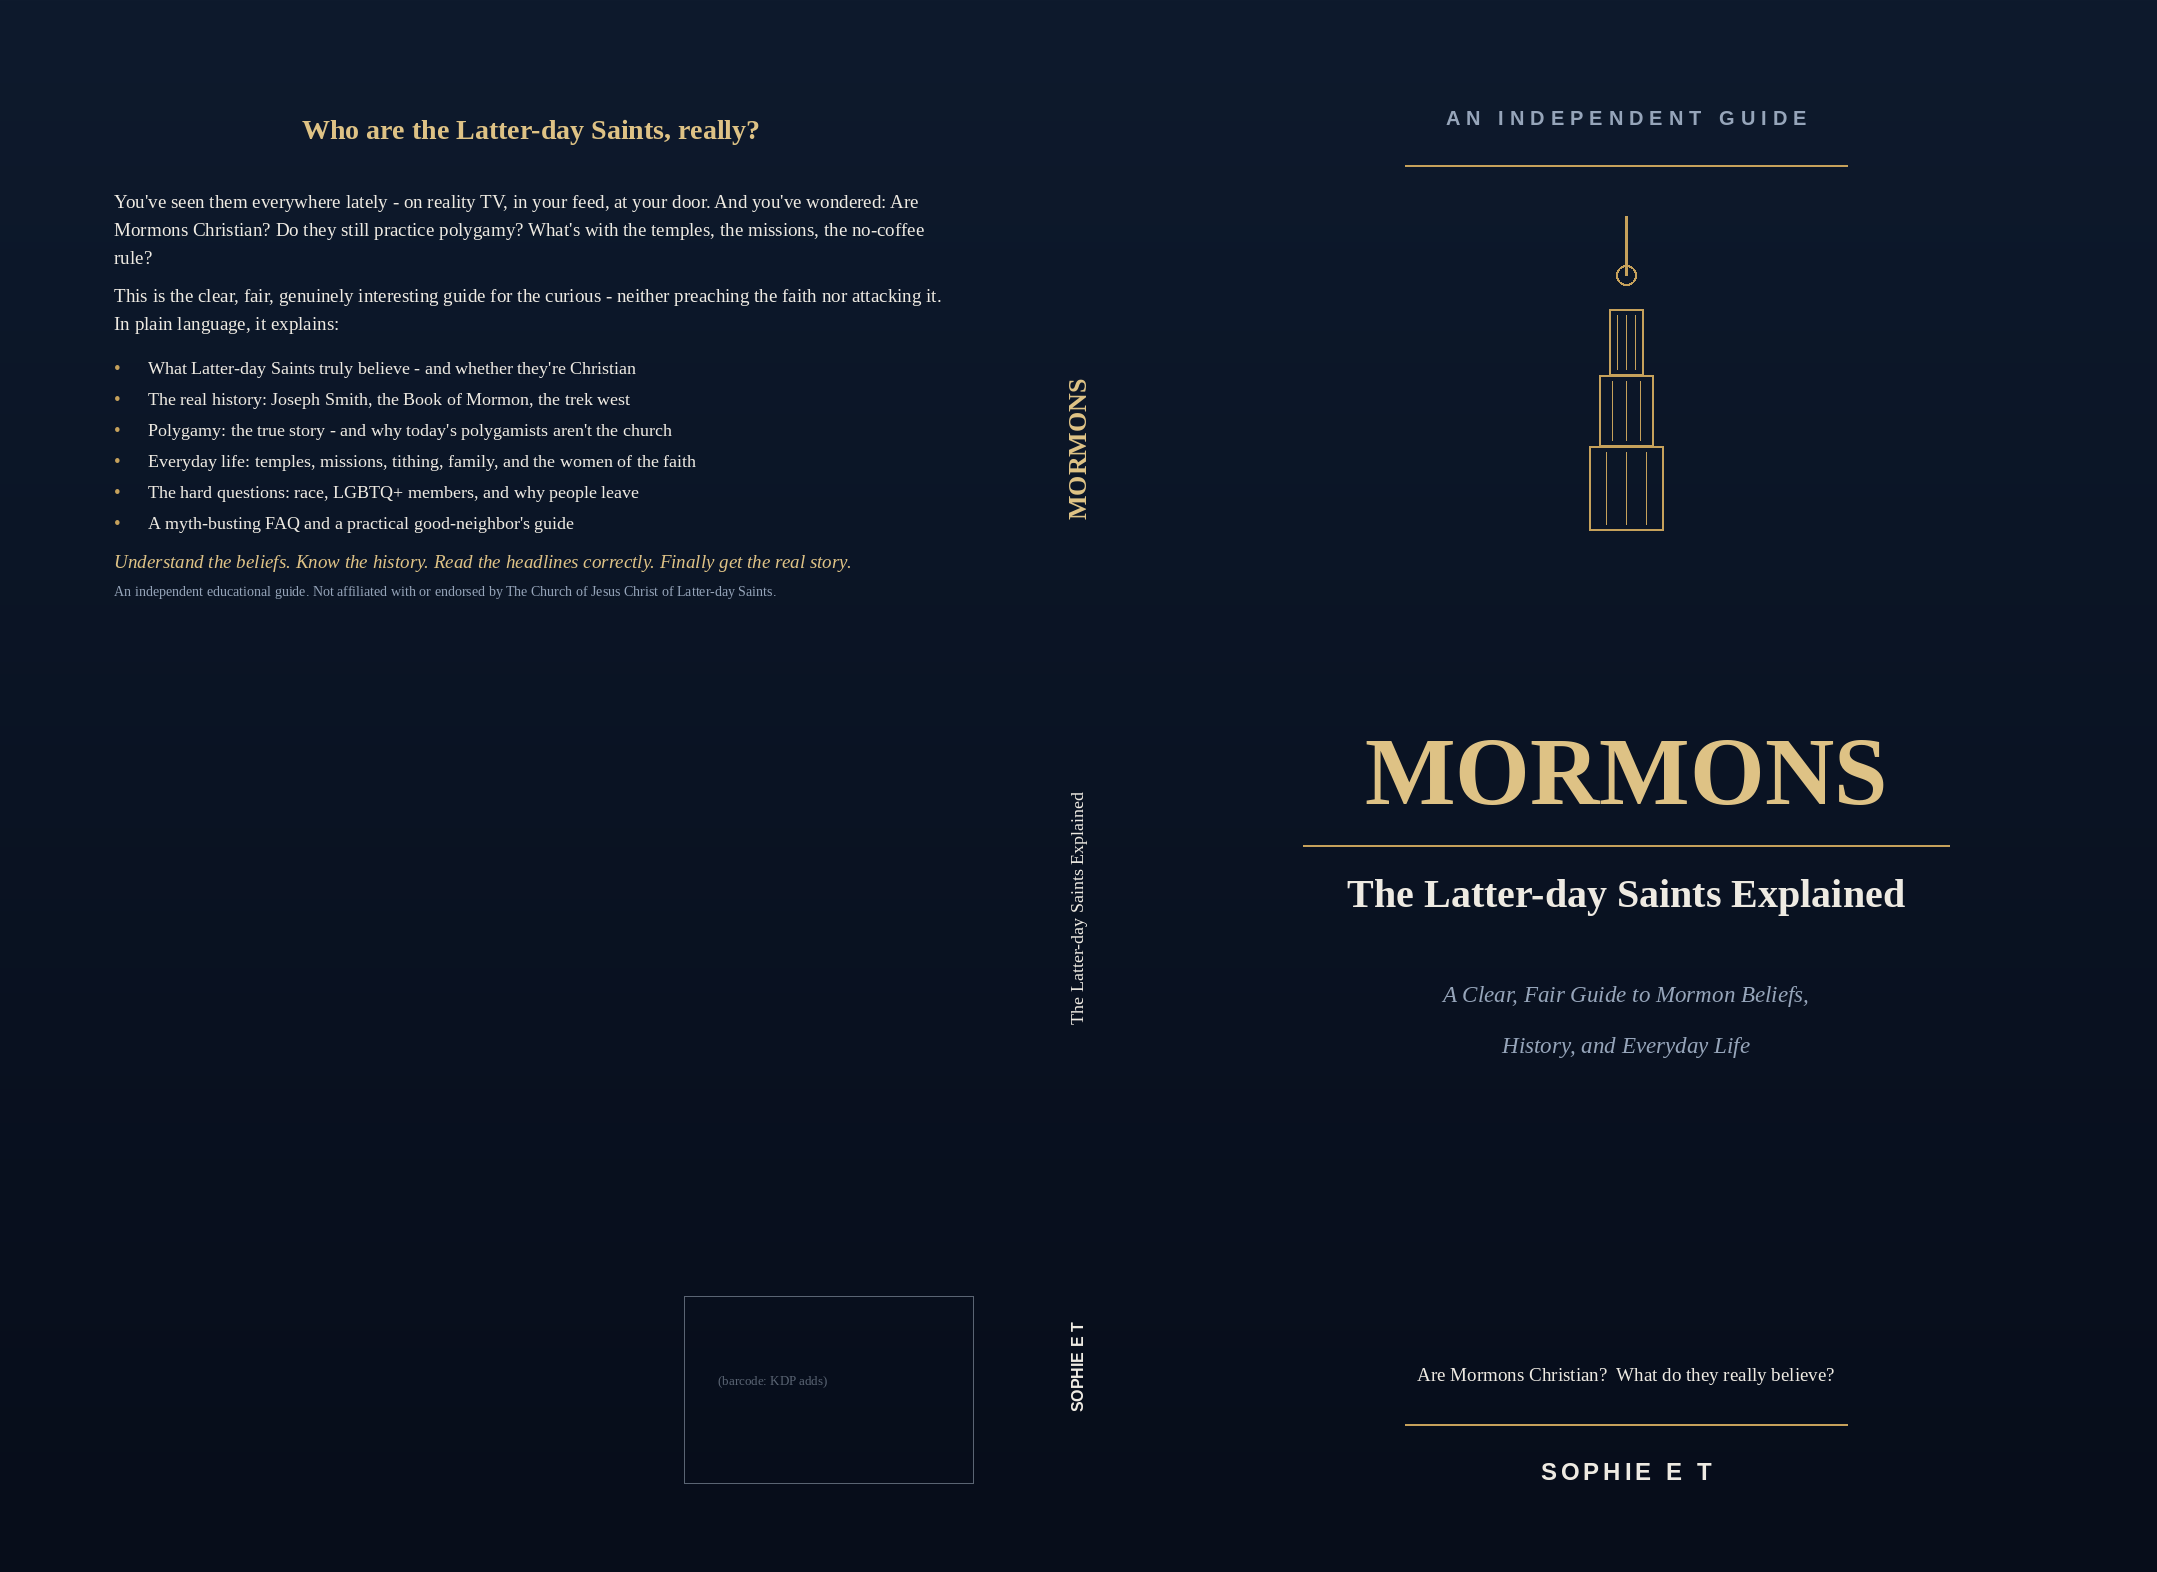
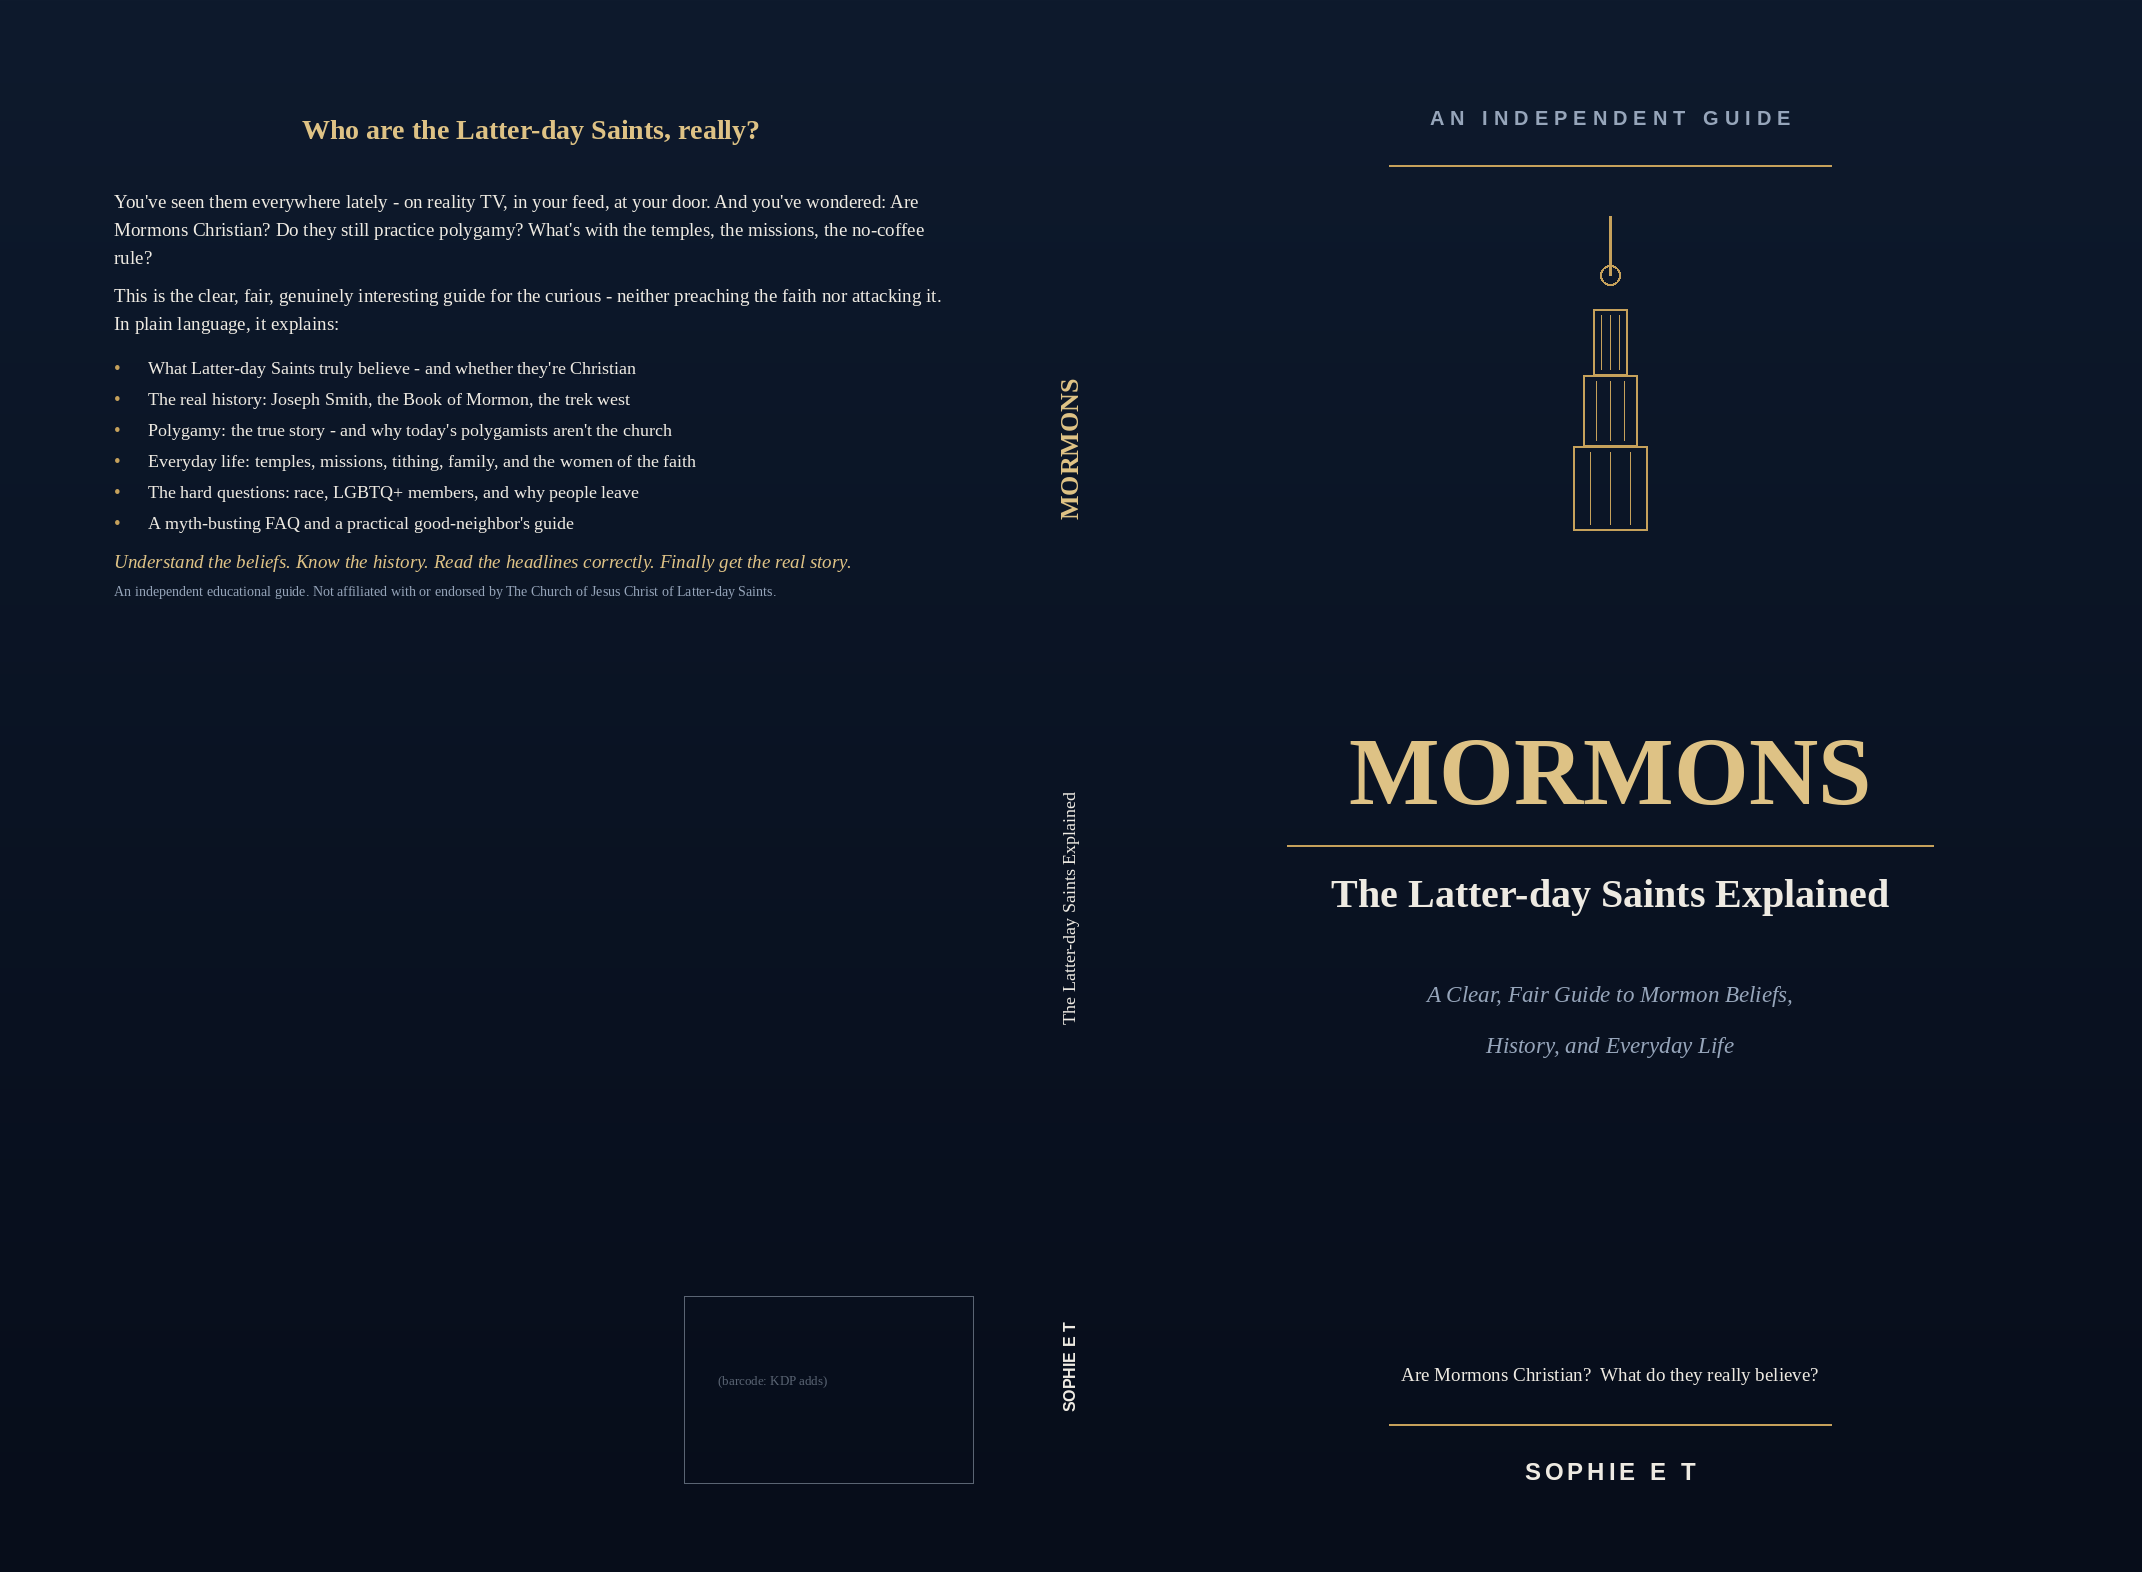
Fix overlapping text on paperback back cover
The back-cover word-wrap helper in build_covers.py did not advance the vertical
position after drawing each block's final line, so bullets and paragraphs stacked
on top of each other. Advance y by the line height after the last line. Regenerated
the 140-page flagship wrap; verified by rasterizing the PDF.

Claude-Session: https://claude.ai/code/session_01JCcmUyJoKcg4A35MRUqzX3

diff --git a/book/build_covers.py b/book/build_covers.py
@@ -197,7 +197,7 @@ def wrap_draw(x_left, y_top, width, lines_spec):
                 line=test
             else:
                 c.drawString(x_left, y, line); y-=size*1.35; line=w
-        if line: c.drawString(x_left, y, line)
+        if line: c.drawString(x_left, y, line); y -= size*1.35
         y -= gap
     return y
 
